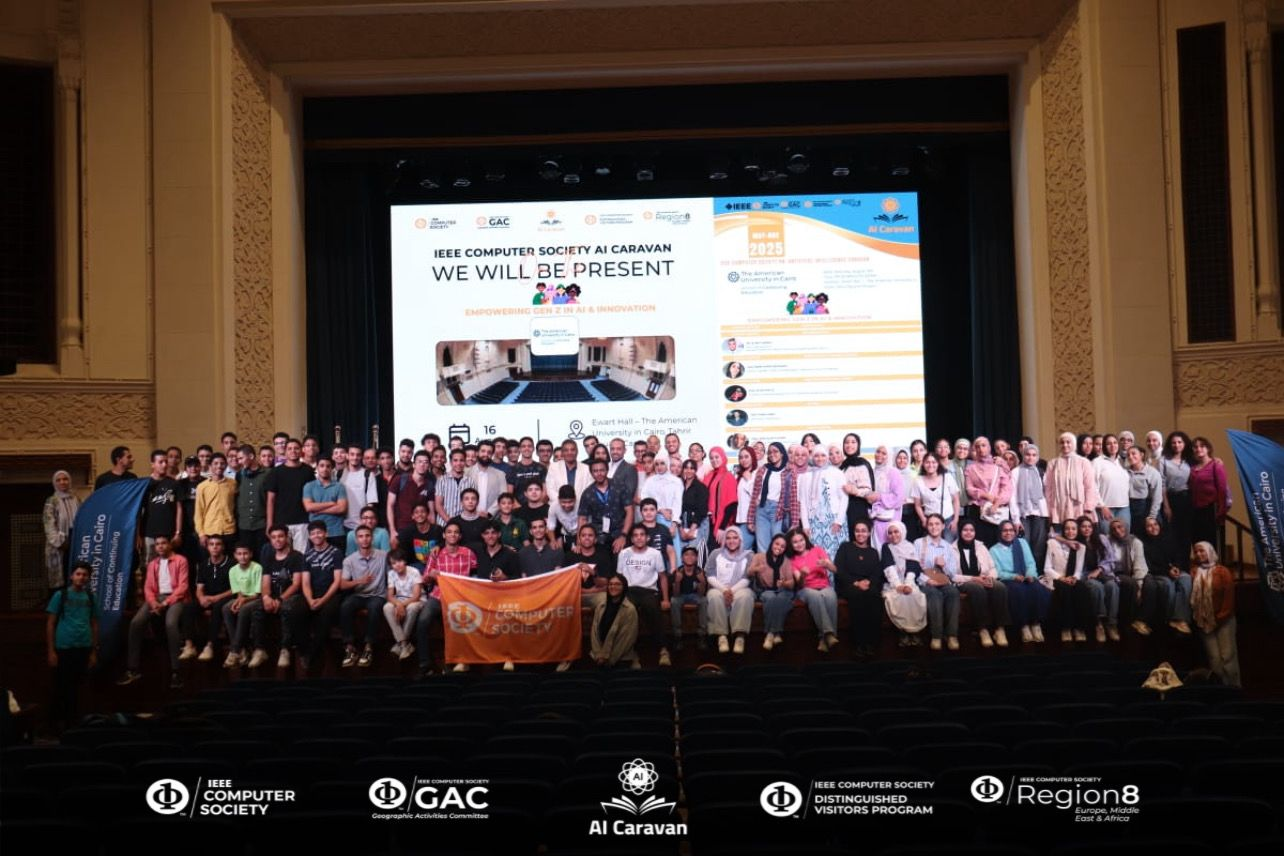
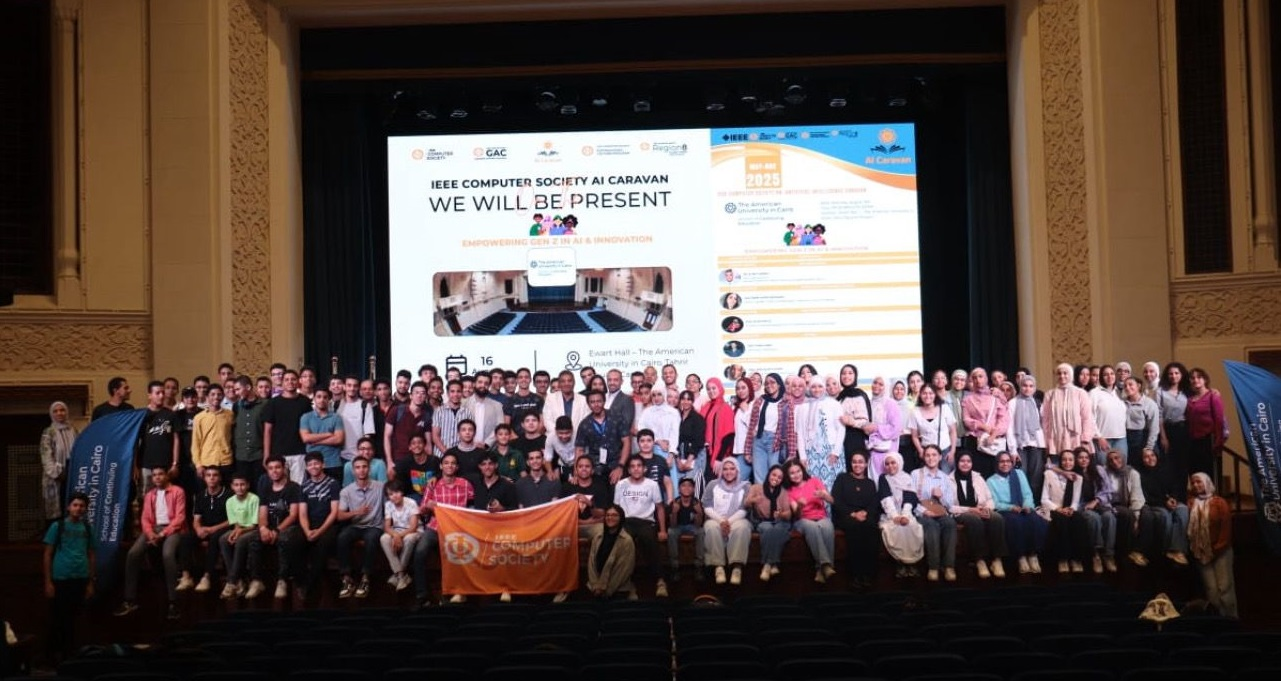
ff

diff --git a/src/App.tsx b/src/App.tsx
@@ -97,7 +97,7 @@ function Home() {
     </section>
     <section className="intro-strip"><div className="container metrics"><div><strong>3</strong><span>program pillars</span></div><div><strong>4+</strong><span>core countries</span></div><div><strong>20+</strong><span>partnership target</span></div><div><strong>90%</strong><span>knowledge-growth target</span></div></div></section>
     <section className="video-section"><div className="container video-grid"><div className="video-copy"><span className="eyebrow light">Watch the journey</span><h2>Highlights from the AI Caravan</h2><p>See the people, ideas, learning moments, and regional collaborations that shaped the Caravan—and the momentum carrying into 2026.</p><a href="https://drive.google.com/file/d/1QpcPKDpWJOf9-GIjCeCnJEOUtHTNpM3C/view" target="_blank" rel="noreferrer">Open video in Google Drive <ExternalLink/></a></div><div className="video-frame"><iframe src="https://drive.google.com/file/d/1QpcPKDpWJOf9-GIjCeCnJEOUtHTNpM3C/preview" title="IEEE CS AI Caravan highlights video" allow="autoplay; fullscreen" allowFullScreen/><span><Play/> Summary highlights</span></div></div></section>
-    <section className="memory-strip"><div className="container"><div className="memory-heading"><span className="eyebrow">From the 2025 journey</span><p>Real people. Practical learning. A growing regional community.</p></div><div className="memory-grid"><ImageStory src="042A2343.jpg" alt="AI Caravan participants holding IEEE Computer Society and regional flags" label="Regional community"/><ImageStory src="suausc.jpg" alt="AI Caravan university audience and organizers" label="On-ground engagement"/><ImageStory src="su21.JPG" alt="Participants presenting an AI solution on stage" label="Applied innovation"/></div></div></section>
+    <section className="memory-strip"><div className="container"><div className="memory-heading"><span className="eyebrow">From the 2025 journey</span><p>Real people. Practical learning. A growing regional community.</p></div><div className="memory-grid"><ImageStory src="042A2343.jpg" alt="AI Caravan participants holding IEEE Computer Society and regional flags" label="Regional community"/><ImageStory src="0.jpg" alt="AI Caravan university audience and organizers" label="On-ground engagement"/><ImageStory src="su21.JPG" alt="Participants presenting an AI solution on stage" label="Applied innovation"/></div></div></section>
     <section className="section container"><div className="section-heading"><span className="eyebrow">One connected journey</span><h2>Learn online. Meet locally.<br/>Lead regionally.</h2><p>A four-month experience designed to move participants from understanding to practical application.</p></div><div className="pillar-grid"><Pillar n="01" icon={<Zap/>} title="Online training" copy="Six role-based pathways combine foundations, demonstrations, case studies, and hands-on exercises."/><Pillar n="02" icon={<MapPin/>} title="Regional stops" copy="Technical talks, workshops, panels, networking, and recognition in communities across Region 8."/><Pillar n="03" icon={<Rocket/>} title="AI Summit" copy="The second IEEE CS Region 8 AI Summit brings the Caravan’s outcomes and global AI leaders to Egypt."/></div></section>
     <section className="blue-band"><div className="container band-grid"><div><span className="eyebrow light">The mission</span><h2>The right to knowledge and practical application in AI.</h2></div><div><p>We connect academia, industry, government, IEEE volunteers, and local communities to build skills that last beyond the program.</p><Link to="/about">Why the Caravan matters <ArrowRight/></Link></div></div></section>
   </>
@@ -111,7 +111,7 @@ function Photo({src,alt}:{src?:string,alt:string}) { const [failed,setFailed]=us
 
 function Activities() { return <><PageHero eyebrow="2026 Program" title="Six pathways. One regional movement." copy="Choose the learning experience that matches how you work, lead, build, or learn."/><section className="section container"><div className="track-grid detailed">{tracks.map(({name,audience,hours,copy,prerequisites,topics,icon:Icon,color})=><article className={`track ${color}`} key={name}><div className="track-top"><span>{audience}</span><Icon/></div><h2>{name}</h2><div className="track-duration"><Clock3/>{hours}<i/>Online training</div><p>{copy}</p><h4>What you will cover</h4><ul>{topics.map(x=><li key={x}>{x}</li>)}</ul><h4>Prerequisites</h4><p className="prereq">{prerequisites}</p><div className="track-foot"><Award/> Certificate after successfully completing the final exam</div></article>)}</div></section><section className="section soft"><div className="container"><div className="section-heading"><span className="eyebrow">On-ground events</span><h2>AI Caravan in the community</h2><p>Local events connect the regional curriculum with practical challenges, young innovators, and local AI ecosystems.</p></div><article className="event-feature"><div className="event-copy"><div className="event-meta"><span><MapPin/>Hammamet, Tunisia</span><span><CalendarDays/>20 June 2026</span></div><h2>Software Engineering International Summit (SEIS)</h2><p>As an official SEIS Tunisia partner, the IEEE Computer Society Region 8 AI Caravan introduced juniors, teenagers, and university students to AI opportunities, responsible use, and real-world applications.</p><p>A highlight was seeing participants collaborate on AI-powered solutions addressing challenges faced by people with ADHD—showing how technology can create meaningful social impact.</p></div><div className="event-gallery">{eventPhotos.map((photo,i)=><div key={photo}><Photo src={photo} alt={`SEIS Tunisia event photo ${i+1}`}/></div>)}</div></article><div className="country-grid compact">{['Egypt','Tunisia','Kenya','Jordan'].map((c,i)=><article key={c}><span>0{i+1}</span><MapPin/><h3>{c}</h3><p>Talks · Workshops · Panels · Networking</p></article>)}</div><p className="expansion-note"><Globe2/> Expansion partnerships are also planned for Saudi Arabia and Rwanda.</p></div></section></> }
 
-function Highlights() { return <><PageHero eyebrow="Program Highlights" title="A practical model built to scale." copy="Online depth, local relevance, and regional visibility come together in one connected initiative."/><section className="highlight-collage container"><ImageStory src="IMG_6970.JPG" alt="An AI project presentation on a large stage"/><ImageStory src="042A3105.jpg" alt="Junior discuss with an expert his idea"/><ImageStory src="had.jfif" alt="AI learning session at AUC"/><div className="collage-caption"><span>Ideas become experiences</span><strong>Learn · Build · Share</strong></div></section><section className="section container"><div className="highlight-list">{[['First of its kind','A multi-country IEEE CS regional AI capacity-building initiative.'],['Role-based learning','Six pathways for students, developers, professionals, operators, and executives.'],['Practical by design','Hands-on exercises, demonstrations, case studies, and applied projects.'],['Regional community','Sustainable links among academia, industry, government, and IEEE volunteers.'],['Flagship finale','The second IEEE CS Region 8 AI Summit showcases outcomes and recognizes excellence.']].map(([a,b],i)=><article key={a}><span>{String(i+1).padStart(2,'0')}</span><div><h2>{a}</h2><p>{b}</p></div><ArrowRight/></article>)}</div></section><section className="orange-band"><div className="container"><Target/><h2>5,000+ people empowered to apply AI in their organizations and communities.</h2><Link className="btn dark" to="/registration">Register your interest <ArrowRight/></Link></div></section></> }
+function Highlights() { return <><PageHero eyebrow="Program Highlights" title="A practical model built to scale." copy="Online depth, local relevance, and regional visibility come together in one connected initiative."/><section className="highlight-collage container"><ImageStory src="suausc.jpg" alt="An AI project presentation on a large stage"/><ImageStory src="042A3105.jpg" alt="Junior discuss with an expert his idea"/><ImageStory src="had.jfif" alt="AI learning session at AUC"/><div className="collage-caption"><span>Ideas become experiences</span><strong>Learn · Build · Share</strong></div></section><section className="section container"><div className="highlight-list">{[['First of its kind','A multi-country IEEE CS regional AI capacity-building initiative.'],['Role-based learning','Six pathways for students, developers, professionals, operators, and executives.'],['Practical by design','Hands-on exercises, demonstrations, case studies, and applied projects.'],['Regional community','Sustainable links among academia, industry, government, and IEEE volunteers.'],['Flagship finale','The second IEEE CS Region 8 AI Summit showcases outcomes and recognizes excellence.']].map(([a,b],i)=><article key={a}><span>{String(i+1).padStart(2,'0')}</span><div><h2>{a}</h2><p>{b}</p></div><ArrowRight/></article>)}</div></section><section className="orange-band"><div className="container"><Target/><h2>5,000+ people empowered to apply AI in their organizations and communities.</h2><Link className="btn dark" to="/registration">Register your interest <ArrowRight/></Link></div></section></> }
 
 function Partners() { return <><PageHero eyebrow="Partners" title="Built through regional collaboration." copy="The Caravan brings together IEEE organizational units, universities, research centers, industry, government, and community partners."/><section className="section container"><div className="partner-lead"><div className="logo-panel"><img src="/imgs/80th Anniversary Full Logo.png" alt="IEEE Computer Society"/></div><div><span className="eyebrow">Convened by</span><h2>IEEE Computer Society</h2><p>With IEEE CS GAC, DVP, Region 8, and a growing network of institutional partners.</p></div></div><div className="partner-grid logo-grid">{partners.map((partner,i)=><article key={partner.name}><span>{String(i+1).padStart(2,'0')}</span><div className="partner-logo"><Photo src={partner.logo} alt={`${partner.name} logo`}/></div><p>{partner.name}</p></article>)}</div><p className="logo-note"><Image/> </p><div className="partner-cta"><div><h2>Help expand access to practical AI.</h2><p>Academic, industry, government, media, and community organizations are invited to collaborate.</p></div><Link className="btn primary" to="/contact">Become a partner <ArrowRight/></Link></div></section></> }
 
